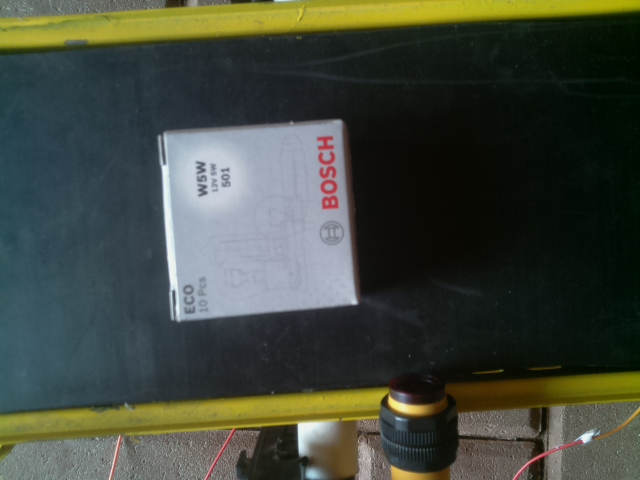
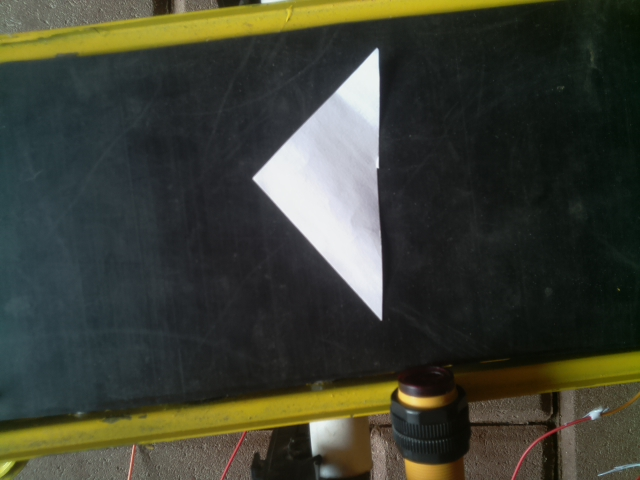
add mask

diff --git a/get_contours.py b/get_contours.py
@@ -2,7 +2,7 @@ import cv2
 import numpy
 from form import Form
 
-def getContours(img, imgContour):
+def getContours(img, imgContour, ogImage):
     contours, image = cv2.findContours(
         img, cv2.RETR_EXTERNAL, cv2.CHAIN_APPROX_NONE)
     form = None
@@ -15,12 +15,14 @@ def getContours(img, imgContour):
             approx = cv2.approxPolyDP(cnt, 0.02 * peri, True)
             corners = len(approx)
             area = int(area)
+            #x,y,w,h = cv2.boundingRect(cnt) # offsets - with this you get 'mask'
+            #cv2.rectangle(ogImage,(x,y),(x+w,y+h),(0,255,0),2)
+            #rint('Average color (BGR): ',numpy.array(cv2.mean(ogImage[y:y+h,x:x+w])).astype(numpy.uint8))
+            mask = numpy.zeros(img.shape, numpy.uint8)
+            cv2.drawContours(mask, cnt, -1, 255, -1)
+            mean = cv2.mean(ogImage, mask=mask)
+            print(mean)
             
-            grain = numpy.int0(cv2.boxPoints(cv2.minAreaRect(cnt)))
-            centroid = grain[2][1] - (grain[2][1]-grain[0][1])//2, grain[2][0] - (grain[2][0]-grain[0][0])//2
-            print(centroid)
-            color = image[centroid]
-            print(image)
             form = Form(corners, area, 'red')
 
             # Draw result on image

diff --git a/get_color.py b/get_color.py
@@ -1,14 +1,18 @@
 import numpy as np
 import cv2
+from picamera import PiCamera
+
+camera = PiCamera()
+camera.capture('image.jpg')
 img = cv2.imread('image.jpg',1)
 cp = cv2.cvtColor(img, cv2.COLOR_BGR2GRAY)
 ret,thresh = cv2.threshold(cp,150,255,0)
 cv2.imshow('img',thresh) 
 cv2.waitKey(0)
-im2,contours,hierarchy = cv2.findContours(thresh.astype(np.uint8), 1, 2)
+contours, im2 = cv2.findContours(thresh.astype(np.uint8), 1, 2)
 cnts = contours
 for cnt in cnts:
-    if cv2.contourArea(cnt) >800: # filter small contours
+    if cv2.contourArea(cnt) > 5000: # filter small contours
         x,y,w,h = cv2.boundingRect(cnt) # offsets - with this you get 'mask'
         cv2.rectangle(img,(x,y),(x+w,y+h),(0,255,0),2)
         cv2.imshow('cutted contour',img[y:y+h,x:x+w])
@@ -17,3 +21,4 @@ for cnt in cnts:
 cv2.imshow('img',img) 
 cv2.waitKey(0)
 cv2.destroyAllWindows()
+

diff --git a/form_detection.py b/form_detection.py
@@ -78,7 +78,7 @@ def run(updateImageSignal, mode):
     kernel = np.ones((5, 5))
     imgDil = cv2.dilate(imgCanny, kernel, iterations=1)
 
-    form = getContours(imgDil, imgContour)
+    form = getContours(imgDil, imgContour, img)
     imgContour = resize(imgContour, 50)
     cv2.imwrite('output.jpg', imgContour)
     updateImageSignal.emit()
